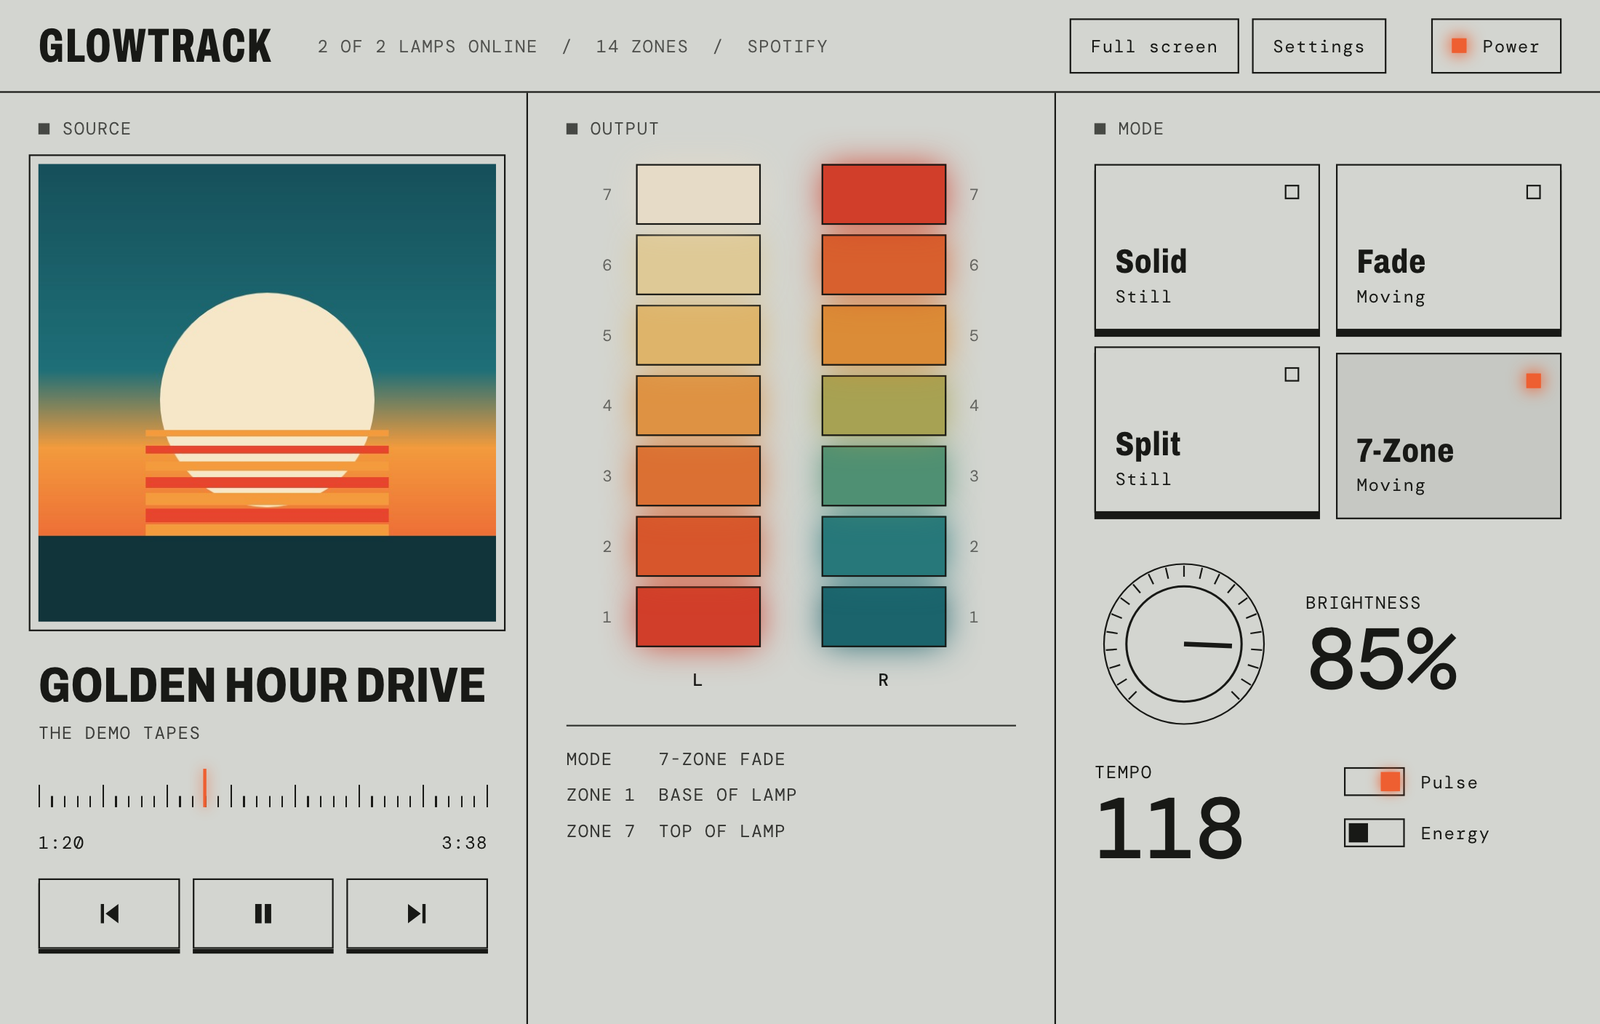
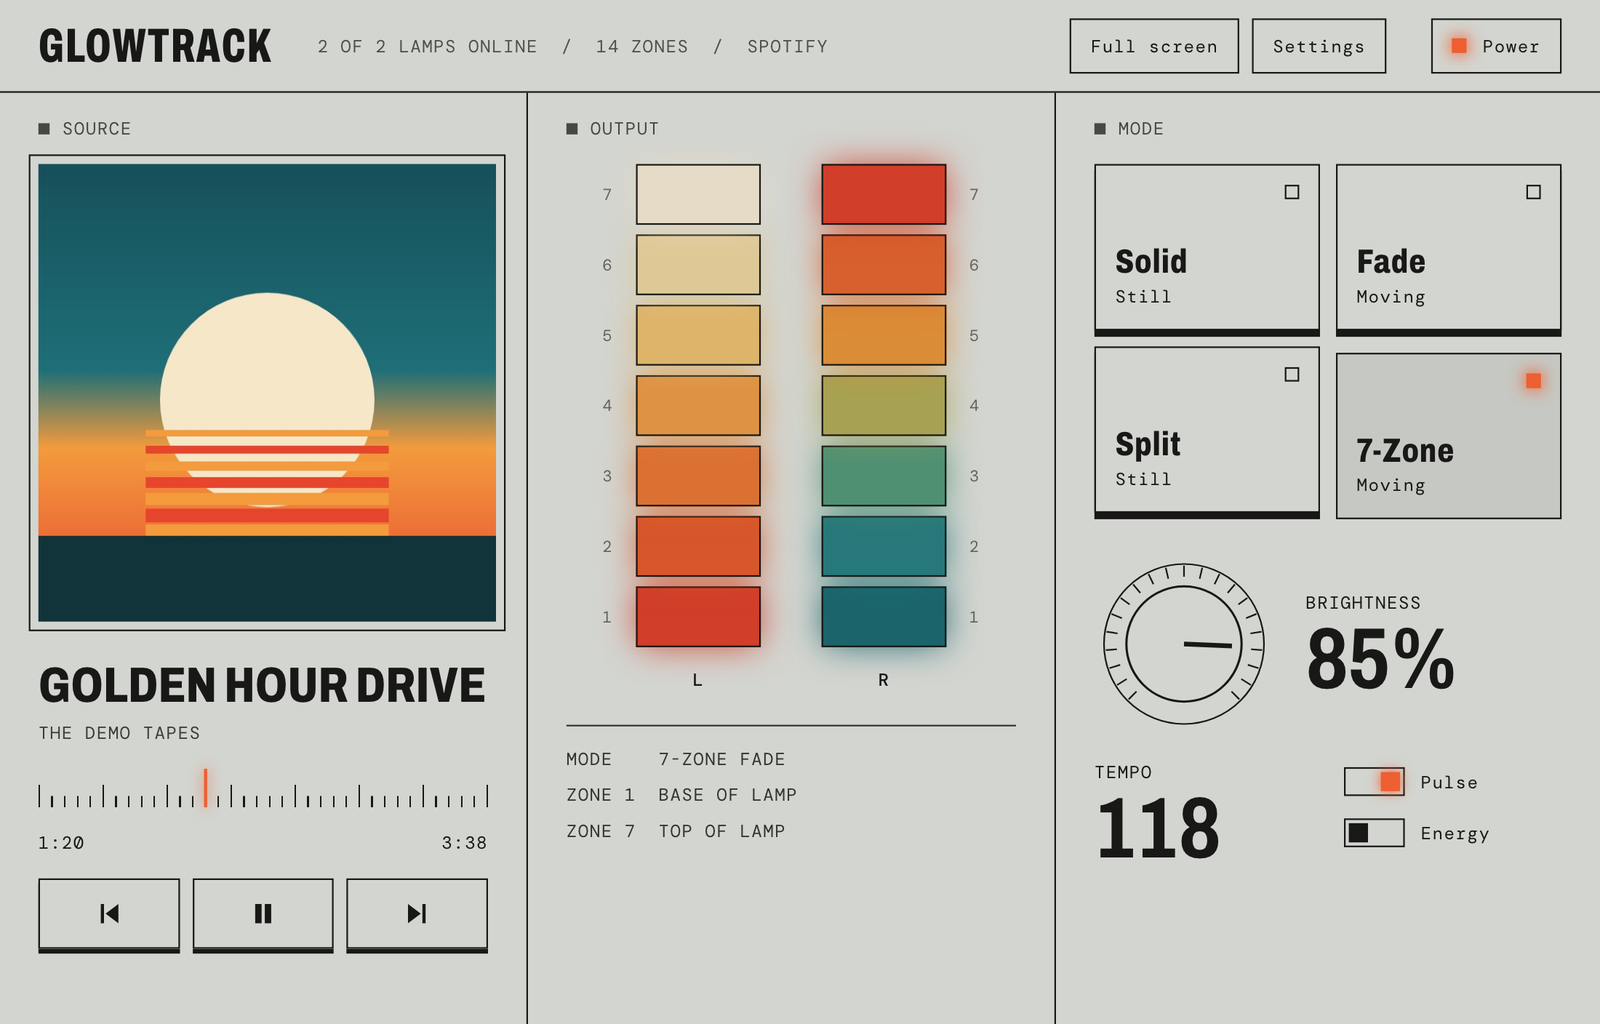
Stage: larger cover on the main screen and lyrics clear of the frame; Instrument time without the slashed zero

Changed region(s): [[0.8125, 0.5938, 0.9062, 0.6875], [0.6875, 0.7812, 0.7812, 0.8438]]

diff --git a/server/web/themes.css b/server/web/themes.css
@@ -46,7 +46,7 @@
 .A .knob { position: relative; width: 112px; height: 112px; flex: none; cursor: grab; touch-action: none; }
 .A .knob svg { width: 100%; height: 100%; }
 .A .bpm { margin-top: 2px; }
-.A .bpm b { display: block; font: 500 54px/1 "DM Mono", monospace; letter-spacing: -.02em; }
+.A .bpm b { display: block; font: 700 54px/1 "Archivo", sans-serif; font-stretch: 78%; font-variant-numeric: tabular-nums; letter-spacing: -.01em; }
 .A .sw { display: flex; align-items: center; gap: 10px; padding: 7px 0; }
 .A .sw .trk { position: relative; width: 38px; height: 18px; border: 1px solid var(--ink); }
 .A .sw .trk::after { content: ""; position: absolute; top: 2px; left: 2px; width: 12px; height: 12px; background: var(--ink); transition: transform .15s; }
@@ -129,7 +129,7 @@
 .D .lampw { -webkit-mask-image: linear-gradient(to top, transparent 0, rgba(0,0,0,.35) 18px, #000 72px); mask-image: linear-gradient(to top, transparent 0, rgba(0,0,0,.35) 18px, #000 72px); }
 .D .lampw i { height: 46px; background: var(--c); box-shadow: 0 0 40px 10px var(--c); }
 .D .lampw.l { left: 27%; } .D .lampw.r { left: 73%; }
-.D .frame { position: absolute; left: 50%; top: 124px; width: 250px; height: 250px; transform: translateX(-50%); padding: 12px; background: #0b0b0d; box-shadow: 0 0 0 1px rgba(255,255,255,.18); }
+.D .frame { position: absolute; left: 50%; top: 108px; width: 364px; height: 364px; transform: translateX(-50%); padding: 12px; background: #0b0b0d; box-shadow: 0 0 0 1px rgba(255,255,255,.18); }
 .D .frame div { width: 100%; height: 100%; background-image: var(--cov); background-size: cover; }
 .D .credit { position: absolute; left: 36px; top: 34px; }
 .D .credit .k { font: 500 11px "DM Mono", monospace; letter-spacing: .12em; text-transform: uppercase; opacity: .6; margin-bottom: 8px; }
@@ -169,8 +169,8 @@
 .A.fs .big { font: 800 64px/.94 "Archivo", sans-serif; font-stretch: 78%; text-transform: uppercase; margin: 0 0 10px; }
 .A.fs.ly .big { font-size: 30px; }
 .A.fs .art2 { opacity: .8; margin-bottom: 22px; }
-.A.fs .tmr { font: 500 88px/1 "DM Mono", monospace; letter-spacing: -.03em; text-transform: none; }
-.A.fs .tmr small { font-size: 16px; letter-spacing: .06em; opacity: .6; margin-left: 12px; }
+.A.fs .tmr { font: 700 88px/1 "Archivo", sans-serif; font-stretch: 78%; font-variant-numeric: tabular-nums; letter-spacing: .01em; text-transform: none; }   /* not the mono font: its zero has a slash through it, which read as stray lines beside the time */
+.A.fs .tmr small { font: 500 16px "DM Mono", monospace; letter-spacing: .06em; opacity: .6; margin-left: 12px; }
 .A.fs.ly .tmr { font-size: 30px; }
 .A.fs .lb { position: absolute; display: flex; gap: 26px; }
 .A.fs.ly .lb { display: none; }
@@ -274,6 +274,8 @@
 .D.fs .credit h3 { width: 100%; font-size: 30px; }
 .D.fs.ly .credit { left: 24%; top: 410px; width: 340px; }
 .D.fs .lyr { left: 40%; right: 12%; top: 90px; bottom: 120px; font: 700 30px/1.35 "Syne", sans-serif; }
+/* with lyrics the column sits clear of the framed cover (48px gap) and is centred against the cover and title, not stuck to the top */
+.D.fs.ly .lyr { left: 46%; right: 6%; top: 86px; bottom: 112px; display: flex; flex-direction: column; justify-content: center; }
 .D.fs .lyr .l { opacity: .28; }
 .D.fs .lyr .l.cur { opacity: 1; }
 .D.fs .mini { position: absolute; left: 50%; transform: translateX(-50%); bottom: 26px; display: flex; align-items: center; gap: 18px; font: 500 11px "DM Mono", monospace; letter-spacing: .08em; text-transform: uppercase; }
@@ -681,8 +683,8 @@ body.in-mac-app #themeRoot .tscroll { top: 28px; }
 .C.fs .ar { max-width: 360px; }
 .C.fs.ly .ar { max-width: 260px; }
 .C.ph .ar { max-width: 296px; }
-.D .credit h3 { width: 330px; }
-.D .credit p { max-width: 330px; }
+.D .credit h3 { width: 270px; }       /* the larger cover starts at x=318; the title stays left of it */
+.D .credit p { max-width: 270px; }
 .D.fs .credit h3 { width: 100%; }
 .D.fs .credit p { max-width: 500px; margin: 0 auto; }
 .D.fs.ly .credit p { max-width: 340px; }
